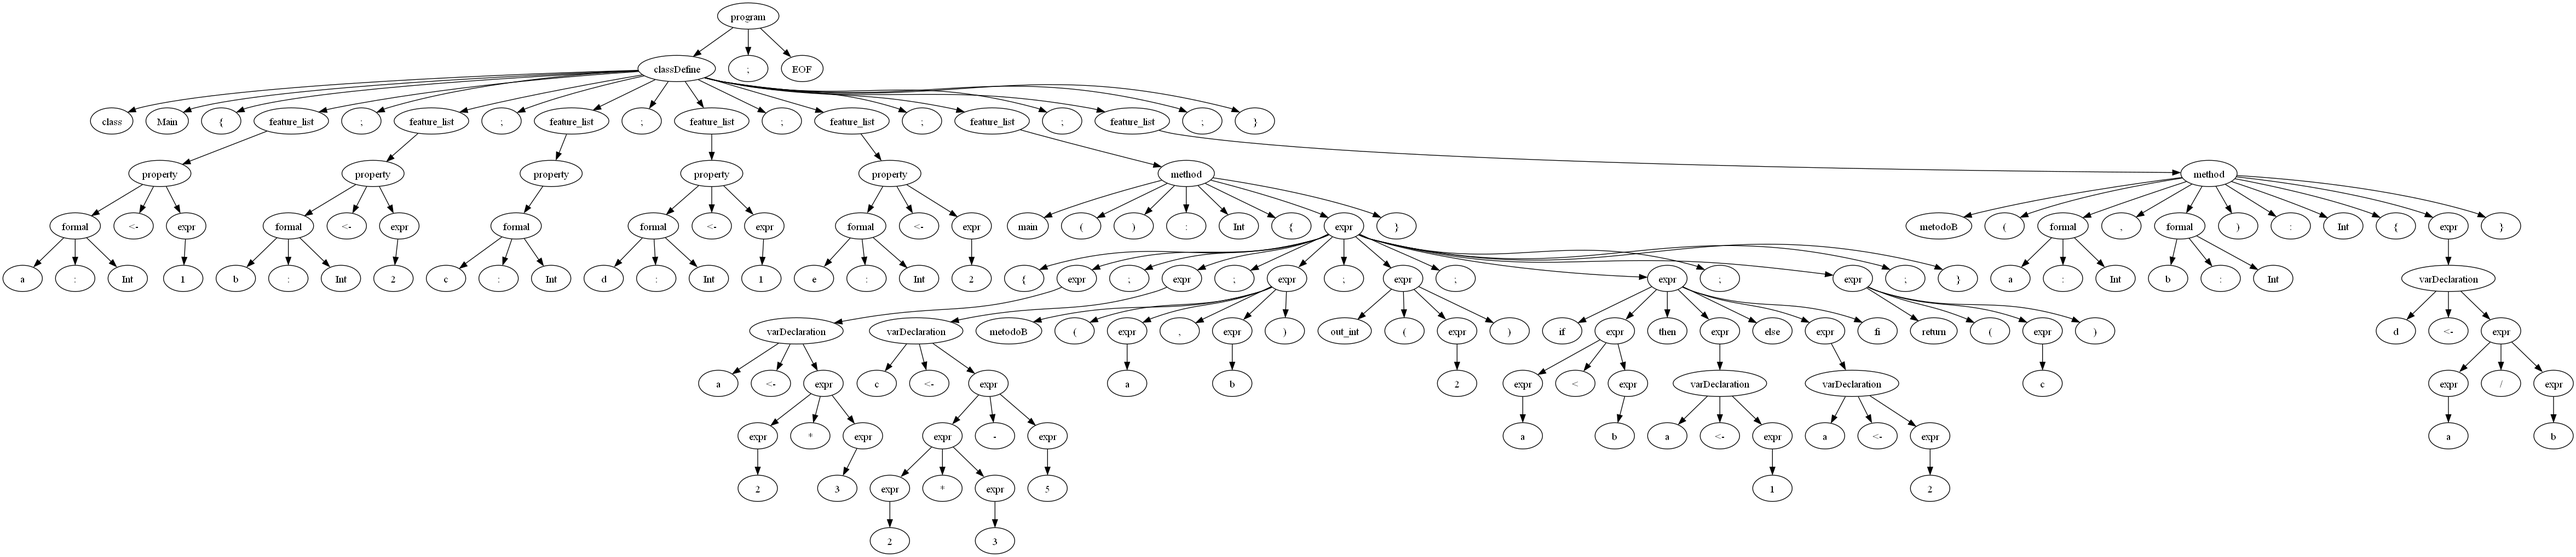
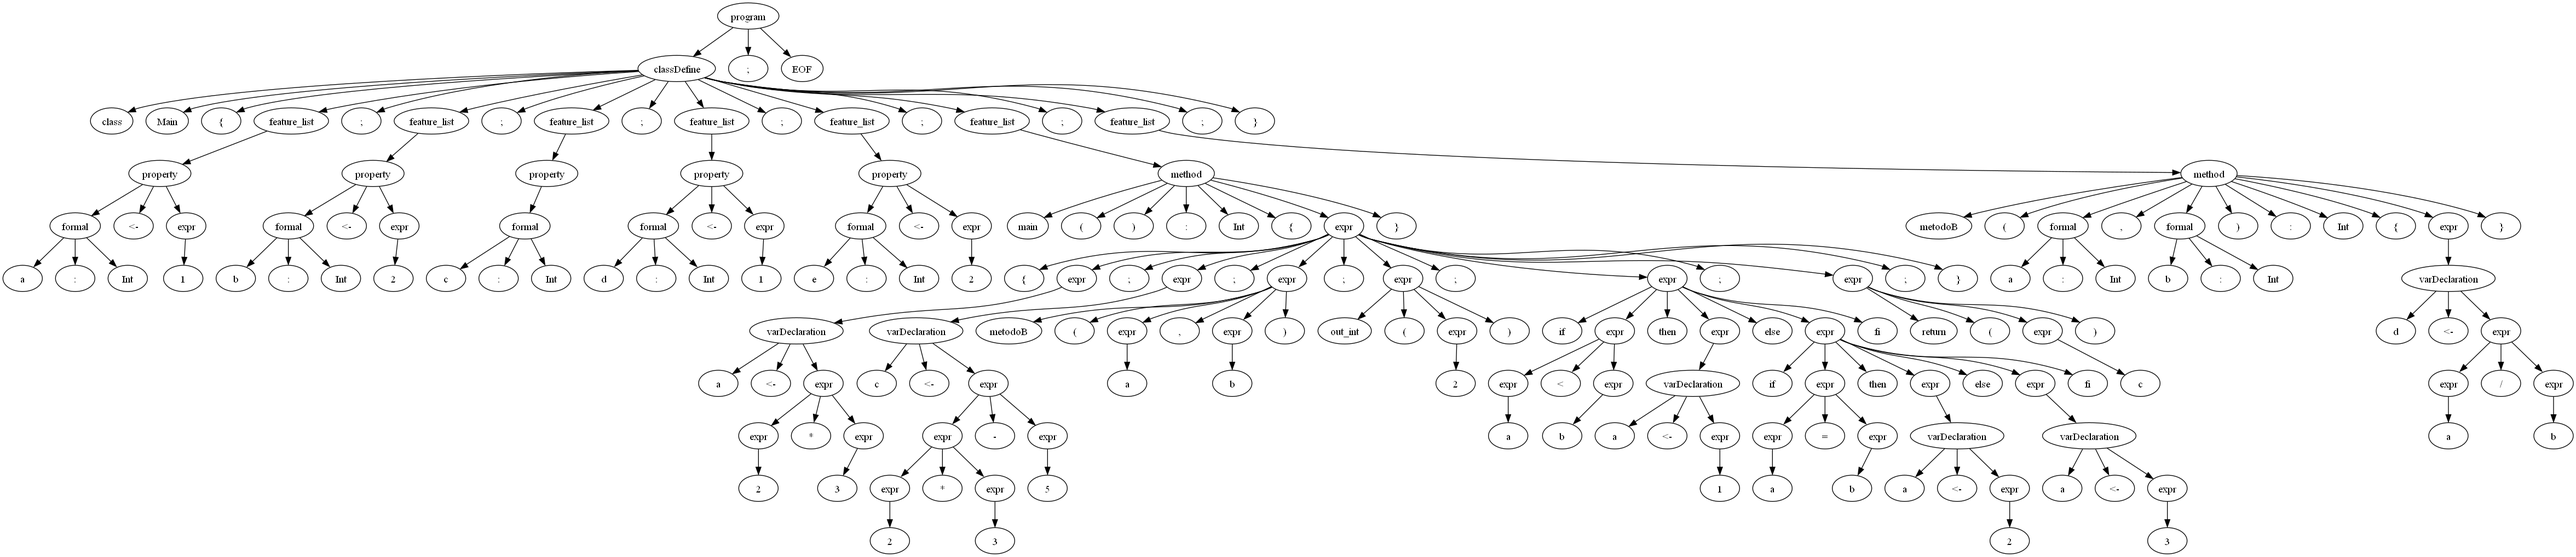
changes

diff --git a/Proyecto2/Cuadrupla.py b/Proyecto2/Cuadrupla.py
@@ -34,7 +34,6 @@ class Intermediate():
         return label
 
     def recorrer_arbol(self, node=None):
-
         if node is not None:
             self.generar_codigo_tres_direcciones(node)
             for child in node.children:
@@ -44,13 +43,15 @@ class Intermediate():
         rule = node.val
 
         if rule == "expr":
+            # print(node)
             if len(node.children) == 3 and node.children[1].val == "(" and node.children[2].val == ")": # es un metodo sin parametros
                 self.methodCallQuad(node)
             elif len(node.children) > 3 and node.children[1].val == "(" and node.children[-1].val == ")": # es un metodo con parametros
                 self.methodCallParamsQuad(node)
-            elif len(node.children) == 3 and node.children[1] in ["+", "/", "-", "*"]: # es operacion aritmetica
-                print(node)
+            elif len(node.children) == 3 and node.children[1].val in ["+", "/", "-", "*"]: # es operacion aritmetica
                 self.arithmeticQuad(node)
+            elif len(node.children) == 7 and node.children[0].val == "if" and node.children[-1].val == "fi": # es un if
+                self.ifQuad(node)
             if node.children[0].val == "return": # es un return
                 self.returnQuad(node)
 
@@ -108,6 +109,56 @@ class Intermediate():
         cuadrupla = Cuadrupla("METHOD_CALL", node.children[0].val, contador, temp)
         self.lista_cuadruplas.append(cuadrupla)
 
+    def createIfLabels(self, node=None):
+        # Initialize a list to store labels
+        labels = []
+
+        # Check if node has children
+        if node and hasattr(node, 'children'):
+            # Loop through each child
+            for child in node.children:
+                # If child value is 'if', create a new label and add it to the list
+                if child.val == "if":
+                    label = self.create_new_label()
+                    labels.append(label)
+
+                # Recursively call function on child and extend the label list with returned labels
+                labels.extend(self.createIfLabels(child))
+
+        return labels
+
+    # funcion para crear la cuadrupla de if
+    def ifQuad(self, node=None):
+        if node in self.processed_nodes:
+            return node.val
+        
+        #creamos las etiquetasq
+        labels = self.createIfLabels(node)
+        labels.append(self.create_new_label())
+        print(labels)
+
+        #creamos la cuadrupla de la condicion
+        condicion = self.getExprChildren(node.children[1])
+        temp = self.create_new_temp()
+        cuadrupla = Cuadrupla(condicion[1], condicion[0], condicion[2], temp)
+        self.lista_cuadruplas.append(cuadrupla)
+
+        #ccreamos la cuadrupla del gotof
+        cuadrupla = Cuadrupla("GOTOF", temp, None, labels[0])
+        self.lista_cuadruplas.append(cuadrupla)
+
+        #agregamos la cuadrupla deel cuerpo del if
+        self.recorrer_arbol(node.children[3])
+        #goto al label final
+        cuadrupla = Cuadrupla("GOTO", None, None, labels[-1])
+
+        #create la cuadrupla del label1
+        cuadrupla = Cuadrupla("LABEL", None, None, labels[0])
+        # else if
+
+        #agregamos el nodo a nodos procesados
+        self.processed_nodes.add(node)
+
     #if para ver si es asignacion o solo declaracion
     def propertyQuad(self, node=None):
         if len(node.children) > 1: # es una asignacion
@@ -141,6 +192,9 @@ class Intermediate():
 
     # funcion para crear la cuadrupla de variables asignadas
     def varDeclarationQuad(self, node=None):
+        if node in self.processed_nodes:
+            return node.val
+
         # Si el nodo tiene hijos
         if len(node.children) > 1:
             # Obtenemos los hijos del nodo VarDeclaration

diff --git a/Proyecto2/YAPLSemantic.py b/Proyecto2/YAPLSemantic.py
@@ -530,9 +530,7 @@ class SemanticVisitor:
     def check_comparisons(self, node):
 
         primera_comparacion = node.children[1]
-
         expresion = self.getExprChildren(primera_comparacion)
-
         variables_comparadas = [expresion[0], expresion[2]]
 
         tipos_datos_comparados = []
